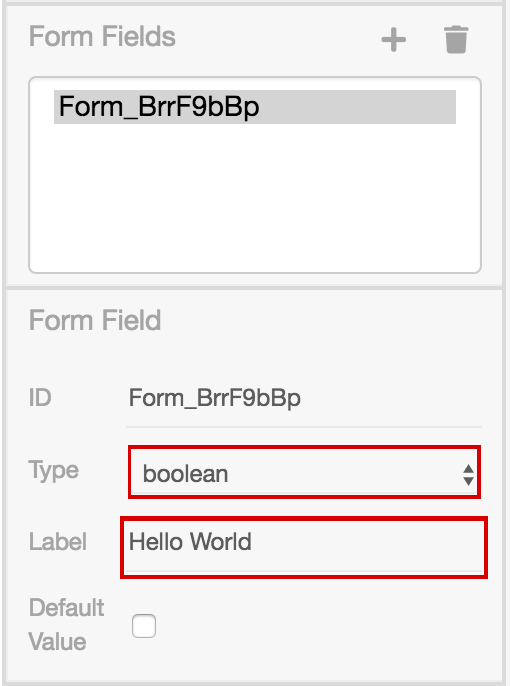
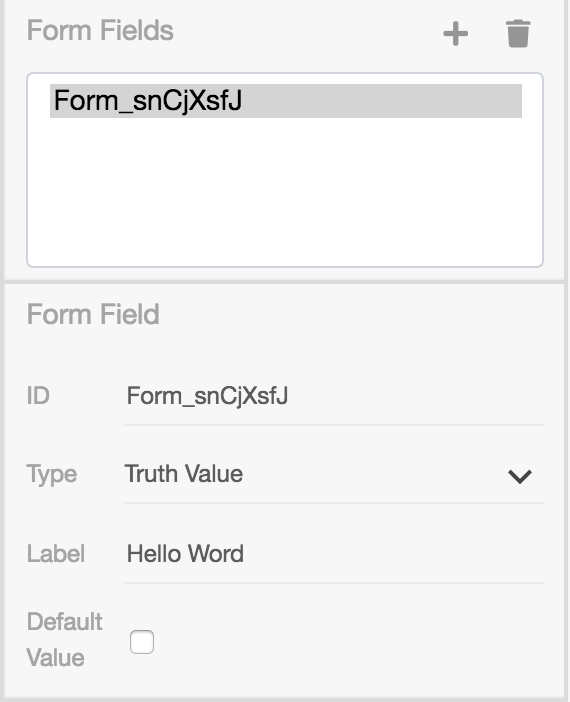
Update form-field types in documentation

Changed region(s): [[0.0, 0.0, 1.0, 1.0], [0.2059, 0.551, 0.5882, 0.6122], [0.2353, 0.8878, 0.2941, 0.9184]]

diff --git a/04_guidelines/basic-editing/basic-editing.md b/04_guidelines/basic-editing/basic-editing.md
@@ -127,20 +127,21 @@ In der `Form Field Section` gibt es die Möglichkeit festzulegen
 
 Es stehen folgende Typen als Auswahl zur Verfügung:
 
-1. `string`
-1. `long`
-1. `boolean`
-1. `date`
-1. `enum`
-1. `custom type`
+1. `Text`
+1. `Integer`
+1. `Decimal`
+1. `Truth Value`
+1. `Date`
+1. `Enum`
+1. `Custom`
 
 **Info**:
 
-Wenn der Typ `enum` ausgewählt ist, erscheint eine weitere Section,
+Wenn der Typ `Enum` ausgewählt ist, erscheint eine weitere Section,
 in der anhand von Key-Value-Paaren angegeben wird, welche Einträge
 die Enum-Auswahl beinhalten soll.
 
-Im BPMN-Studio wird ein UserTask vom Typ `enum` während der Ausführung als
+Im BPMN-Studio wird ein UserTask vom Typ `Enum` während der Ausführung als
 Dropdown dargestellt.
 
 #### Dynamische Werte für Formularfelder
@@ -206,11 +207,11 @@ preferredControl      confirm
 
 ausgewählt. Dabei ist wichtig, dass `confirm` klein geschrieben wird.
 
-Dieser Dialog besitzt die Besonderheit, dass ein Form Field vom Typ `boolean`
+Dieser Dialog besitzt die Besonderheit, dass ein Form Field vom Typ `Truth Value`
 benötigt wird, welches beim Ausführen bestätigt werden soll. Das Label dieses
 Form Fields wird als Nachricht zum Bestätigen genutzt.
 
-Dazu wird das erste Form Field vom Typ `boolean` verwendet.
+Dazu wird das erste Form Field vom Typ `Truth Value` verwendet.
 Alle anderen Form Fields, werden normal angezeigt, wie auch bei dem Formular.
 
 Bestätigungsdialoge haben drei Button:
@@ -224,15 +225,15 @@ Bestätigungsdialoge haben drei Button:
 
    Der `Confirm`-Button bestätigt den Dialog und schließt den User Task mit
    den eingegebenen Daten ab.
-   
-   Das erste `boolean` Form Field bekommt als Wert `true` gesetzt.
+
+   Das erste `Truth Value` Form Field bekommt als Wert `true` gesetzt.
 
 1. `Decline`-Button
 
    Der `Decline`-Button lehnt den Dialog ab und schließt den User Task mit
    den eingegebenen Daten ab.
-   
-   Das erste `boolean` Form Field bekommt als Wert `false` gesetzt.
+
+   Das erste `Truth Value` Form Field bekommt als Wert `false` gesetzt.
 
 ### Message, Escalation, Error, Signal
 

diff --git a/02_getting_started/examples/hello_world/README.md b/02_getting_started/examples/hello_world/README.md
@@ -99,12 +99,12 @@ muss der UserTask folgendermaßen konfiguriert werden:
 
    <img src="./images/extensions-selection.png" width="100%" />
 
-1. Ein FormField mit dem Typ Boolean wird benötigt.
+1. Ein FormField mit dem Typ `Truth Value` wird benötigt.
 
    Das Label stellt die Nachricht, die nur bestätigt werden soll, dar.
 
    **Wichtig:** Wenn der UserTask eine Confirm Ansicht anzeigen soll, muss
-   immer das **ERSTE** FormField vom Typ `boolean` sein.
+   immer das **ERSTE** FormField vom Typ `Truth Value` sein.
    Die Id spielt dabei keine Rolle.
 
    <img src="./images/confirm-form-field.png" width="50%" />
